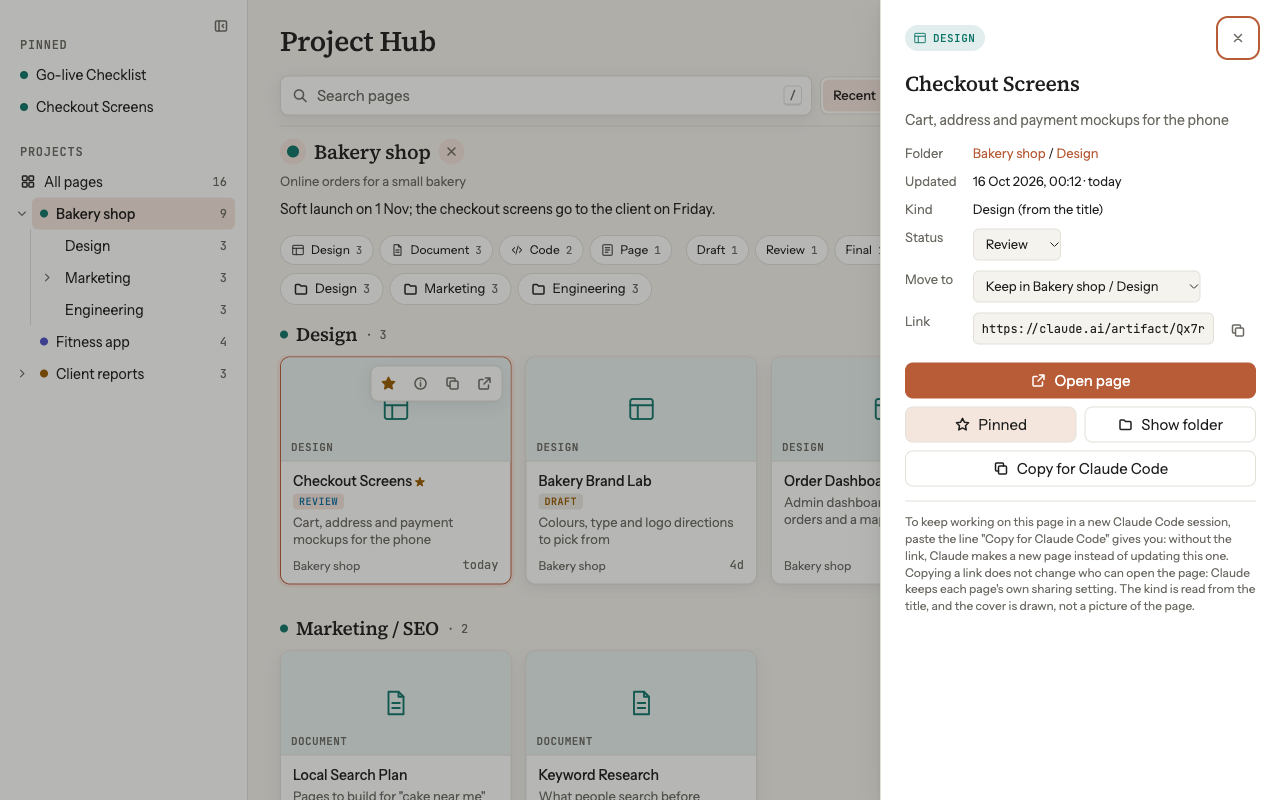
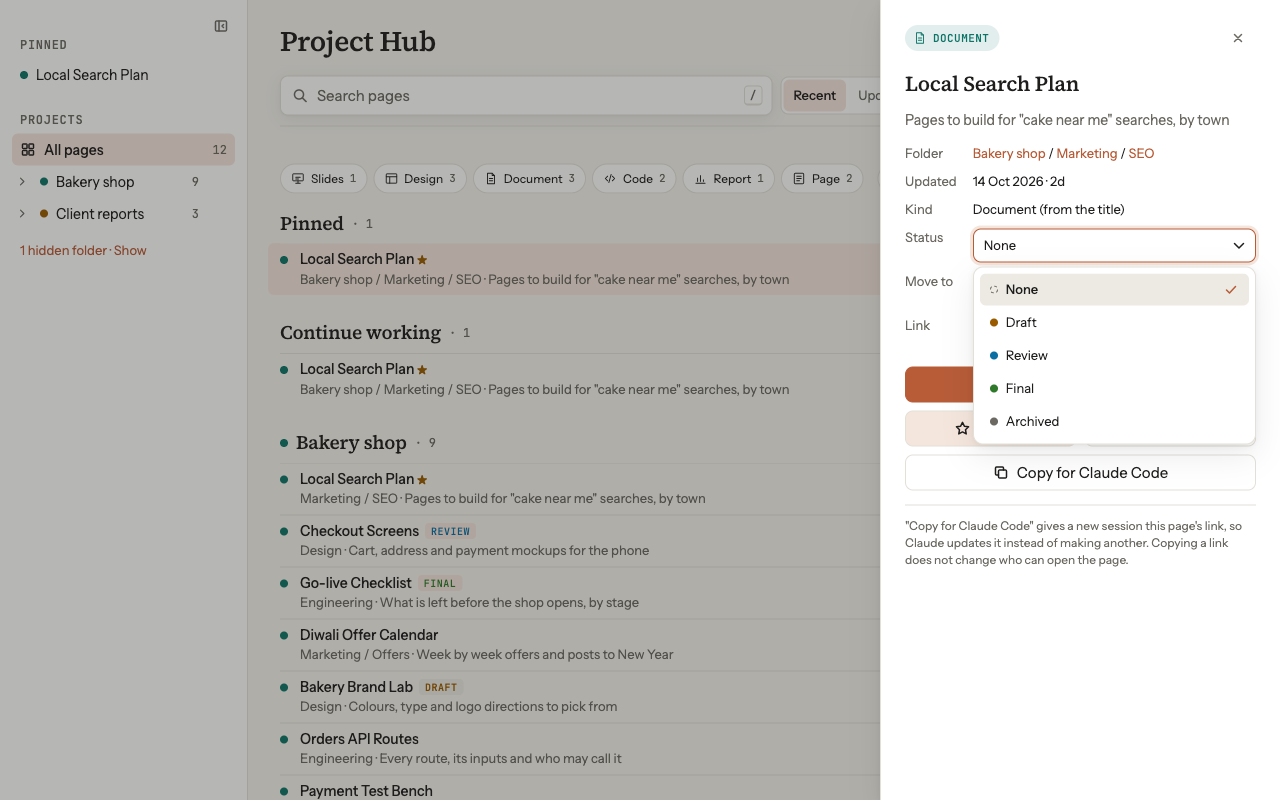
First-visit hint, quick-open digit badges, install paths and social preview (1.5.8)
- Page: one-time hint toast on first open; numbered badges while o waits for a digit;
  hidden folders leave the top-level chip row too; two new tests (25 total).
- Setup skill: empty account path, template path without CLAUDE_PLUGIN_ROOT,
  create the settings folder.
- README: pain line, badges, three install paths (this marketplace, community
  marketplace once listed, skills-only via npx skills add); details screenshot
  retaken with the Status menu open.
- plugin.json: 13 keywords; docs/social-preview.png for the GitHub social card.

diff --git a/skills/hub/template.html b/skills/hub/template.html
@@ -132,6 +132,11 @@ kbd { font: 500 11px/1 var(--mono); padding: 3px 5px; border: 1px solid var(--li
 @media (hover: none) { .mini { visibility: visible; width: 36px; height: 36px; } }
 .item.faint { opacity: 0.55; }
 .side-foot { margin: 12px 8px 0; font-size: 13px; }
+/* o then a digit: while waiting for the digit, the first nine pages wear it */
+.qk { position: absolute; z-index: 2; top: 50%; left: 0; width: 18px; height: 18px; margin-top: -9px; border-radius: 999px; background: var(--accent); color: var(--on-accent);
+  font: 600 11px/18px var(--mono); text-align: center; box-shadow: var(--lift); pointer-events: none; }
+.card .qk { top: 8px; left: 8px; margin-top: 0; }
+.row:has(> .qk) > .dot { visibility: hidden; }
 @media (max-width: 1023px) { .item { min-height: 40px; } }
 
 /* ---- Intro and the sticky header. Phones: a search row (menu, search, view) over one strip that
@@ -587,7 +592,7 @@ button.lnk:hover { text-decoration: underline; }
   // ---- Per-viewer memory. Every read and write is guarded: the page works with storage blocked.
   var K = { folder: 'project-hub.folder.v2', pins: 'project-hub.pins.v1', opened: 'project-hub.opened.v1',
     sort: 'project-hub.sort.v1', density: 'project-hub.density.v1', theme: 'project-hub.theme.v1', view: 'project-hub.view.v1', look: 'project-hub.look.v1', hidden: 'project-hub.hidden.v1',
-    colors: 'project-hub.colors.v1', side: 'project-hub.side.v1', edits: 'project-hub.edits.v1', visit: 'project-hub.visit.v1' };
+    colors: 'project-hub.colors.v1', side: 'project-hub.side.v1', edits: 'project-hub.edits.v1', visit: 'project-hub.visit.v1', hint: 'project-hub.hint.v1' };
   function getRaw(k) { try { return localStorage.getItem(k); } catch (e) { return null; } }
   function setRaw(k, v) { try { localStorage.setItem(k, v); } catch (e) { /* not saved */ } }
   function getJSON(k, d) { try { var v = JSON.parse(getRaw(k)); return v == null ? d : v; } catch (e) { return d; } }
@@ -1026,7 +1031,7 @@ button.lnk:hover { text-decoration: underline; }
 
   function render() {
     var query = q.value.trim(), secs = sections(query), frag = document.createDocumentFragment(), build = view === 'gallery' ? getCard : getRow;
-    var keep = active && active._p; shown = [];
+    var keep = active && active._p; shown = []; if (quick) clearQuick();
     secs.forEach(function (s) {
       var sec = getSec(s), kind = s.key === 'pin' || s.key === 'rec' ? s.key : 'm';
       s.items.forEach(function (p) { var r = build(p, kind); fillItem(r, p, s.path, query); sec.body.appendChild(r); shown.push(r); });
@@ -1164,12 +1169,13 @@ button.lnk:hover { text-decoration: underline; }
     if (current.kids.length && !query) {
       var subs = el('div', 'subs');
       current.kids.forEach(function (k) {
+        if (isHidden(k) && !showHidden && !inCurrent(k)) return; // hidden folders leave the chips too (the tablet rail shows them at the top level)
         var b = el('button'); b.type = 'button';
         if (k.up === root) b.appendChild(el('span', 'dot c-' + k.color)); else b.appendChild(icon('folder'));
         b.appendChild(el('span', '', k.name)); b.appendChild(el('small', '', String(under(k).length)));
         b.addEventListener('click', function () { go(k); }); subs.appendChild(b);
       });
-      bar.appendChild(subs);
+      if (subs.childNodes.length) bar.appendChild(subs);
     }
   }
   // the empty hub shows what it will look like: six example cards, clearly marked, that go nowhere
@@ -1250,7 +1256,7 @@ button.lnk:hover { text-decoration: underline; }
     var foot = $('side-hidden'); foot.textContent = '';
     if (hidden.length) { // one quiet line: how many folders are hidden, and a way to see them
       var t = el('button', 'lnk'); t.type = 'button'; t.textContent = showHidden ? 'Hide them again' : hidden.length + (hidden.length === 1 ? ' hidden folder · Show' : ' hidden folders · Show');
-      t.addEventListener('click', function () { showHidden = !showHidden; renderSide(); }); foot.appendChild(t);
+      t.addEventListener('click', function () { showHidden = !showHidden; renderSide(); render(); }); foot.appendChild(t); // render too: the chip row follows
     }
     var dots = $('rail-dots'); dots.textContent = '';
     [root].concat(root.kids.filter(function (n) { return !isHidden(n) || inCurrent(n); })).forEach(function (n) {
@@ -1270,10 +1276,10 @@ button.lnk:hover { text-decoration: underline; }
     if (window.scrollY > 0) window.scrollTo(0, 0);
   }
   var toastTimer = 0;
-  function toast(msg, text) {
+  function toast(msg, text, ms) {
     var t = $('toast'); clearTimeout(toastTimer); t.textContent = ''; t.appendChild(el('span', '', msg));
     if (text) { var i = el('input'); i.readOnly = true; i.value = text; i.setAttribute('aria-label', 'Text to copy'); t.appendChild(i); i.focus(); i.select(); }
-    toastTimer = setTimeout(function () { t.textContent = ''; }, text ? 8000 : 1500);
+    toastTimer = setTimeout(function () { t.textContent = ''; }, ms || (text ? 8000 : 1500));
   }
   function copyText(text, done) { // clipboard first; if refused, show the text selected so it can be copied by hand
     function byHand() {
@@ -1538,7 +1544,14 @@ button.lnk:hover { text-decoration: underline; }
   keys.addEventListener('click', function (e) { if (e.target === keys) hideDialog(keys); }); // a click on the backdrop
   window.addEventListener('hashchange', function () { var n = fromHash(); if (n && n !== current) go(n); });
 
-  var quick = 0; // when "o" was pressed, waiting for a digit
+  var quick = 0, quickTimer = 0; // when "o" was pressed, waiting for a digit
+  function armQuick() { // the first nine pages shown wear their digit until one is pressed, or 2.5s pass
+    clearQuick(); quick = Date.now();
+    shown.slice(0, 9).forEach(function (r, i) { var b = el('span', 'qk', String(i + 1)); b.setAttribute('aria-hidden', 'true'); r.appendChild(b); });
+    toast('Open which? 1–' + Math.min(9, shown.length), null, 2500);
+    quickTimer = setTimeout(clearQuick, 2500);
+  }
+  function clearQuick() { quick = 0; clearTimeout(quickTimer); each('.qk', function (b) { b.parentNode.removeChild(b); }); }
   document.addEventListener('keydown', function (e) {
     if (keys.open || insp.open || paste.open || e.isComposing) return; // an open dialog handles its own Esc
     var t = e.target, inSearch = t === q, inList = t === list, mod = e.metaKey || e.ctrlKey;
@@ -1550,7 +1563,8 @@ button.lnk:hover { text-decoration: underline; }
       return;
     }
     if (e.key === 'Escape') {
-      if (Object.keys(selected).length) { e.preventDefault(); clearSel(); }
+      if (quick) { e.preventDefault(); clearQuick(); $('toast').textContent = ''; }
+      else if (Object.keys(selected).length) { e.preventDefault(); clearSel(); }
       else if (swatchOpen) { e.preventDefault(); swatchOpen = false; renderBar(q.value.trim()); var dbtn = bar.querySelector('.dotbtn'); if (dbtn) dbtn.focus(); }
       else if (app.classList.contains('nav-open')) { e.preventDefault(); closeNav(true); }
       else if (openRow) { openRow.classList.remove('show'); openRow.querySelector('.more').setAttribute('aria-expanded', 'false'); openRow = null; }
@@ -1567,9 +1581,9 @@ button.lnk:hover { text-decoration: underline; }
     }
     if (mod || e.altKey) return;
     // o then a digit: open the 1st to 9th page shown
-    if (quick && Date.now() - quick < 1500 && /^[1-9]$/.test(e.key)) { e.preventDefault(); quick = 0; var qr = shown[+e.key - 1]; if (qr) { setActive(qr, true); qr.querySelector('a.txt').click(); } else toast('Only ' + shown.length + ' pages shown'); return; }
+    if (quick && Date.now() - quick < 2500 && /^[1-9]$/.test(e.key)) { e.preventDefault(); var qr = shown[+e.key - 1]; clearQuick(); if (qr) { setActive(qr, true); qr.querySelector('a.txt').click(); } else toast('Only ' + shown.length + ' pages shown'); return; }
     // single-key shortcuts; never while typing in a field
-    if (e.key === 'o' && shown.length) { e.preventDefault(); quick = Date.now(); toast('Open which? 1–9'); }
+    if (e.key === 'o' && shown.length) { e.preventDefault(); armQuick(); }
     else if (e.key === 'x' && active) { e.preventDefault(); toggleSel(active._p); }
     else if (e.key === '/') { e.preventDefault(); q.focus(); q.select(); }
     else if (e.key === '?') { e.preventDefault(); showDialog(keys); }
@@ -1593,5 +1607,12 @@ button.lnk:hover { text-decoration: underline; }
 
   trail(current).forEach(function (x) { expanded[x.key] = true; }); // the folder opened at load is shown open
   applyLook(false); applyTheme(); setSort(sort); setView(view, false); setDense(dense); setFolded(folded, false); renderSide(); render();
+
+  // first open in this browser: one quiet line on where the shortcuts and the details are; never on an empty hub
+  if (!getRaw(K.hint) && Object.keys(byId).length) setTimeout(function () {
+    if (getRaw(K.hint) || keys.open || insp.open || paste.open) return; setRaw(K.hint, '1');
+    var pointer = window.matchMedia && matchMedia('(hover: hover)').matches;
+    toast(pointer ? 'Press ? for shortcuts · i for details on any page' : 'Tap ⓘ on any page for details', null, 6000);
+  }, 1500);
 })();
 </script>

diff --git a/test/template.test.js b/test/template.test.js
@@ -71,7 +71,32 @@ test('every storage access is guarded, and the view has its own key', () => {
   assert.ok(uses.length > 0);
   for (const line of uses) assert.match(line, /try \{/, line.trim());
   const keys = script(TEMPLATE).match(/var K = \{[\s\S]*?\};/)[0];
-  for (const k of ['folder.v2', 'pins.v1', 'opened.v1', 'sort.v1', 'density.v1', 'theme.v1', 'view.v1', 'colors.v1', 'side.v1', 'hidden.v1', 'edits.v1', 'visit.v1']) assert.match(keys, new RegExp(`project-hub\\.${k.replace('.', '\\.')}`), k);
+  for (const k of ['folder.v2', 'pins.v1', 'opened.v1', 'sort.v1', 'density.v1', 'theme.v1', 'view.v1', 'colors.v1', 'side.v1', 'hidden.v1', 'edits.v1', 'visit.v1', 'hint.v1']) assert.match(keys, new RegExp(`project-hub\\.${k.replace('.', '\\.')}`), k);
+});
+
+test('the first-visit hint shows once, never on an empty hub, and is only a toast', () => {
+  const js = script(TEMPLATE);
+  const hint = js.match(/first open in this browser[\s\S]*?\}, 1500\);/);
+  assert.ok(hint, 'the hint block exists and waits 1.5s');
+  assert.match(hint[0], /!getRaw\(K\.hint\) && Object\.keys\(byId\)\.length/, 'guarded by the key and by the hub having pages');
+  assert.match(hint[0], /setRaw\(K\.hint, '1'\)/, 'the key is set when shown');
+  assert.match(hint[0], /toast\(/, 'uses the toast');
+  assert.doesNotMatch(hint[0], /showDialog|<dialog/, 'no new dialog');
+  assert.match(hint[0], /Press \? for shortcuts/);
+  assert.match(hint[0], /Tap ⓘ on any page/);
+  assert.match(hint[0], /6000/, 'stays about 6s');
+});
+
+test('o then a digit: the first nine pages wear their digit, and the badges go on Esc, a digit or a timeout', () => {
+  const js = script(TEMPLATE);
+  assert.match(js, /function armQuick\(\)[\s\S]*?shown\.slice\(0, 9\)[\s\S]*?el\('span', 'qk', String\(i \+ 1\)\)/, 'one badge per page, 1 to 9');
+  assert.match(js, /b\.setAttribute\('aria-hidden', 'true'\)/, 'badges are decoration');
+  assert.match(js, /function clearQuick\(\) \{ quick = 0;[\s\S]*?each\('\.qk'/, 'clearing removes every badge');
+  assert.match(js, /if \(quick\) \{ e\.preventDefault\(\); clearQuick\(\);/, 'Esc disarms');
+  assert.match(js, /\/\^\[1-9\]\$\/\.test\(e\.key\)\) \{ e\.preventDefault\(\); var qr = shown\[\+e\.key - 1\]; clearQuick\(\);/, 'a digit disarms');
+  assert.match(js, /quickTimer = setTimeout\(clearQuick, 2500\)/, 'a timeout disarms');
+  assert.match(TEMPLATE, /\.qk \{ position: absolute;[^}]*pointer-events: none;/, 'badges are not interactive');
+  assert.match(js, /\['o  then  1–9', 'Open the 1st to 9th page shown'\]/, 'listed in the shortcuts sheet');
 });
 
 test('the empty template script parses', () => {

diff --git a/README.md b/README.md
@@ -4,11 +4,12 @@
 
 **Every Claude artifact you publish, filed, searchable, and one keystroke away.**
 
-A Claude Code plugin. The moment a page is published, its link is saved on your machine and filed into a project folder on one private index page: your Project Hub.
+The gallery drops older pages, links get lost, and a new session publishes a duplicate instead of updating the page you meant. This Claude Code plugin saves every published link on your machine the moment it exists and files it into a project folder on one private index page: your Project Hub.
 
 [![test](https://github.com/SureshKumar-24/artifact-hub/actions/workflows/test.yml/badge.svg)](https://github.com/SureshKumar-24/artifact-hub/actions/workflows/test.yml)
-[![release](https://img.shields.io/github/v/tag/SureshKumar-24/artifact-hub?label=release)](https://github.com/SureshKumar-24/artifact-hub/releases)
-[![licence](https://img.shields.io/badge/licence-MIT-blue)](LICENSE)
+[![release](https://img.shields.io/github/v/release/SureshKumar-24/artifact-hub?label=release)](https://github.com/SureshKumar-24/artifact-hub/releases/latest)
+[![licence](https://img.shields.io/github/license/SureshKumar-24/artifact-hub?label=licence)](LICENSE)
+[![stars](https://img.shields.io/github/stars/SureshKumar-24/artifact-hub?style=flat&label=stars)](https://github.com/SureshKumar-24/artifact-hub/stargazers)
 ![dependencies](https://img.shields.io/badge/dependencies-0-brightgreen)
 ![network calls](https://img.shields.io/badge/network%20calls-0-brightgreen)
 
@@ -57,7 +58,7 @@ Artifact Hub answers each one: every link is saved on your machine at publish ti
 
 <table>
 <tr>
-<td width="50%"><img src="docs/details.png" alt="The details panel: title, description, folder as links, exact date and time, kind, status and move-to selects, the full link, Open page, Pinned, Show folder and Copy for Claude Code"></td>
+<td width="50%"><img src="docs/details.png" alt="The details panel with the Status menu open: title, description, folder as links, exact date and time, kind, Status and Move to menus, the full link, Open page, Pinned, Show folder and Copy for Claude Code; the sidebar shows one hidden folder"></td>
 <td width="50%"><img src="docs/dark-search.png" alt="Dark theme, list view, a search for 'plan' inside the Bakery shop folder with the match highlighted"></td>
 </tr>
 <tr>
@@ -75,7 +76,7 @@ Artifact Hub answers each one: every link is saved on your machine at publish ti
 
 ## Install
 
-In Claude Code:
+**From this repository** (in Claude Code, or the same two commands as `claude plugin marketplace add …` and `claude plugin install …` in a terminal):
 
 ```
 /plugin marketplace add SureshKumar-24/artifact-hub
@@ -87,6 +88,21 @@ Then run this once:
 ```
 /artifact-hub:setup
 ```
+
+**From Anthropic's community marketplace**, once listed there:
+
+```
+/plugin marketplace add anthropics/claude-plugins-community
+/plugin install artifact-hub@claude-community
+```
+
+**Skills only**, into any agent that reads `SKILL.md` files:
+
+```
+npx skills add SureshKumar-24/artifact-hub
+```
+
+That gives you the `hub`, `find` and `pin` skills against a hub you already have, but not the hooks that save each link at publish time, so the saved list, the weekly digest and first-time setup need the plugin install.
 
 | You want to | Do this |
 |---|---|

diff --git a/skills/setup/SKILL.md b/skills/setup/SKILL.md
@@ -13,12 +13,18 @@ Do this once per user.
    `~/.claude/artifact-hub/pages.json` if it exists: the plugin has been saving every
    publish there since it was installed. Include those pages too (not ones marked
    `deleted`), using each entry's `folder` as a strong hint for its project.
+   If both are empty (a new account, or a fresh install with nothing published yet),
+   skip step 3: publish the hub with an empty `PROJECTS` array. The page shows a
+   designed empty state with example rows marked as examples, and the first real
+   publish fills it. Say so in one line.
 3. Work out the projects from the titles: pages that share a leading name or an obvious
    subject belong together. Propose the list to the user in a short table (project name,
    number of pages, two example titles) and ask them to confirm or rename. Pages you
    cannot place go under "Other". Do not invent projects with one page unless the title
    clearly names a project.
-4. Copy `${CLAUDE_PLUGIN_ROOT}/skills/hub/template.html` to a working file. Fill the
+4. Copy `${CLAUDE_PLUGIN_ROOT}/skills/hub/template.html` to a working file in your
+   scratchpad (when that variable is not set, as with a skills-only install, the
+   template is `skills/hub/template.html` next to this skill's folder). Fill the
    `PROJECTS` array between `HUB-DATA-START` and `HUB-DATA-END` with one entry per
    project. Each `shelves` entry is a folder path inside the project (see the
    `hub` skill). Split a project into two to four subfolders by subject only when it has
@@ -33,7 +39,8 @@ Do this once per user.
    gets a fixed colour by its place in the list (see the `hub` skill).
 5. Publish it with `Artifact` (no `url`, icon `folder`). The page's `<title>` is
    "Project Hub" unless the user wants another name.
-6. Write `~/.claude/artifact-hub/hub.json` with the published link as `hubUrl`, the title
+6. Write `~/.claude/artifact-hub/hub.json` (create the folder if needed) with the
+   published link as `hubUrl`, the title
    as `hubTitle`, and for each project an `id` (lowercase, no spaces), its `name`,
    `match` (the lowercase title words that identify it), `subfolders` (one
    `{ "path", "match" }` rule per subfolder you created) and `folders` (the name of the

diff --git a/CHANGELOG.md b/CHANGELOG.md
@@ -1,5 +1,16 @@
 # Changelog
 
+## 1.5.8
+
+- First open in a browser: one quiet line, "Press ? for shortcuts · i for details on any
+  page" (on touch, "Tap ⓘ on any page for details"), shown once about a second after the
+  page loads and never on an empty hub (`project-hub.hint.v1`).
+- `o` then a digit: while the page waits for the digit, the first nine pages shown wear a
+  small numbered badge, so the mapping is visible instead of guessed. The badges go when a
+  digit is pressed, on Esc, or after 2.5 seconds.
+- A hidden folder no longer appears in the chip row at the top level (the row the tablet
+  rail shows), and "Show" in the sidebar brings it back there too.
+
 ## 1.5.7
 
 - After Claude writes your changes, the page forgets them on its own: an edit kept in the

diff --git a/skills/hub/SKILL.md b/skills/hub/SKILL.md
@@ -180,7 +180,8 @@ words.
 
 If the hub you read has no `data-hub-template="3"` attribute, it uses an older page
 design (`data-hub-template="2"` is the 1.4 list page; a hub with no `id="tree"` element
-does not have folders yet either). Take `${CLAUDE_PLUGIN_ROOT}/skills/hub/template.html`,
+does not have folders yet either). Take `${CLAUDE_PLUGIN_ROOT}/skills/hub/template.html`
+(or `skills/hub/template.html` next to this skill when that variable is not set),
 put the hub's existing `PROJECTS` array into it unchanged, keep the hub's `<title>` and
 `<h1>`, and republish to the same URL. Tell the user in one line what changed: folders,
 if it had none; otherwise the new page (a gallery of cards or a list, a details panel for
